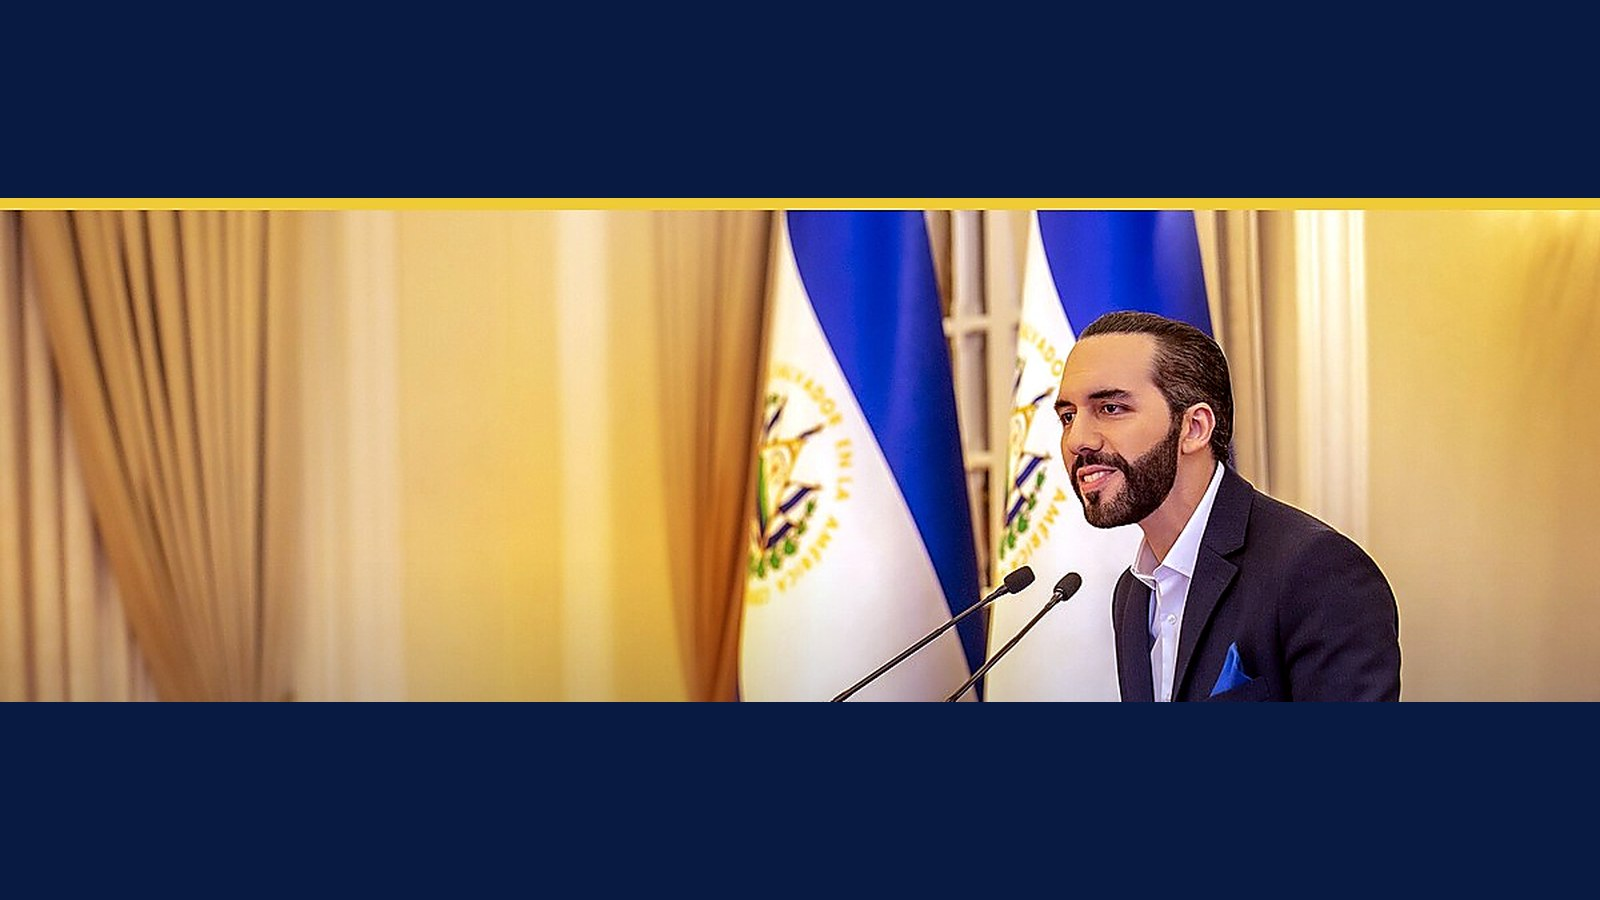
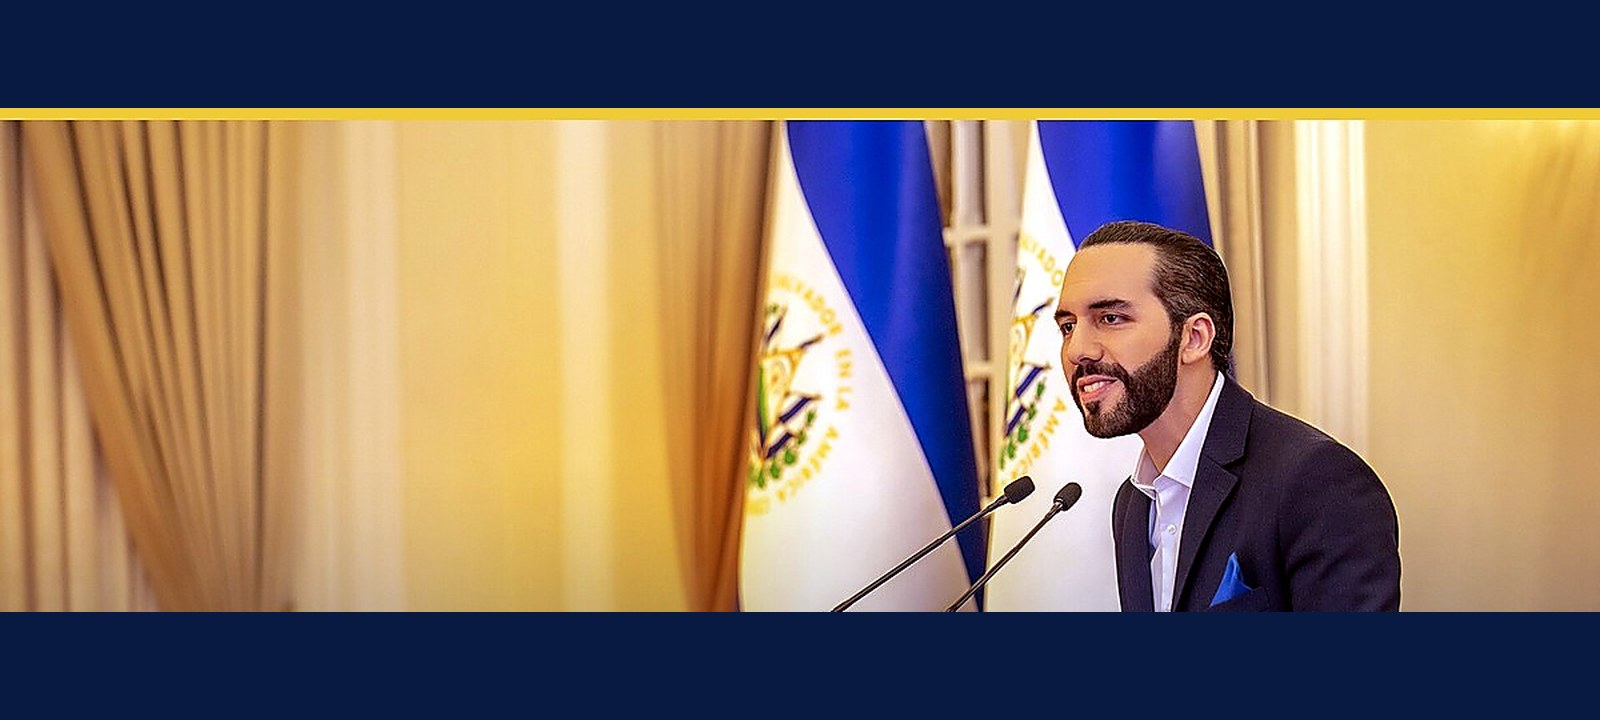
Compacta la altura del carrusel

Changed region(s): [[0.0, 0.1222, 1.0, 0.8556], [0.0938, 0.5806, 0.125, 0.6417]]

diff --git a/style.css b/style.css
@@ -1755,3 +1755,26 @@ body:not(.article-page):not(:has(.home-hero)) .card-lg .excerpt{
     font-size:clamp(2.4rem,3vw,3.45rem);
   }
 }
+
+
+/* Carrusel compacto: formato panoramico y panel de lectura reducido. */
+.hh-slide .img{aspect-ratio:20/9}
+.hh-slide .hh-body{
+  min-height:185px;
+  padding:20px 18px 58px;
+}
+.hh-slide h2{
+  font-size:clamp(1.72rem,7vw,2.25rem);
+  -webkit-line-clamp:3;
+}
+.hh-ctrl{bottom:12px}
+
+@media(min-width:900px){
+  .hh-slide .img{aspect-ratio:20/9}
+  .hh-slide .hh-body{
+    min-height:200px;
+    padding:24px 40px 66px;
+  }
+  .hh-slide h2{font-size:clamp(2.25rem,2.7vw,3rem)}
+  .hh-ctrl{bottom:16px}
+}

diff --git a/sw.js b/sw.js
@@ -7,7 +7,7 @@
 // - skipWaiting NO automático: el SW nuevo activa cuando todas las pestañas se cierran
 //   (en un sitio editorial es lo natural — el lector navega de una nota a otra).
 
-const CACHE_VERSION = 'pl-v20';
+const CACHE_VERSION = 'pl-v21';
 const SHELL = [
   '/',
   '/index.html',

diff --git a/GUIA-IMAGENES-CARRUSEL.md b/GUIA-IMAGENES-CARRUSEL.md
@@ -4,9 +4,9 @@ Estas reglas aplican a toda noticia que vaya a ocupar la portada principal o una
 
 ## Formato obligatorio
 
-- Proporción horizontal 16:9.
-- Tamaño recomendado: 1600 × 900 px.
-- Tamaño mínimo: 1200 × 675 px.
+- Proporción panorámica 20:9 para portada.
+- Tamaño recomendado: 1600 × 720 px.
+- Tamaño mínimo: 1200 × 540 px.
 - JPG progresivo o WebP optimizado.
 - Peso recomendado: menos de 350 KB.
 
